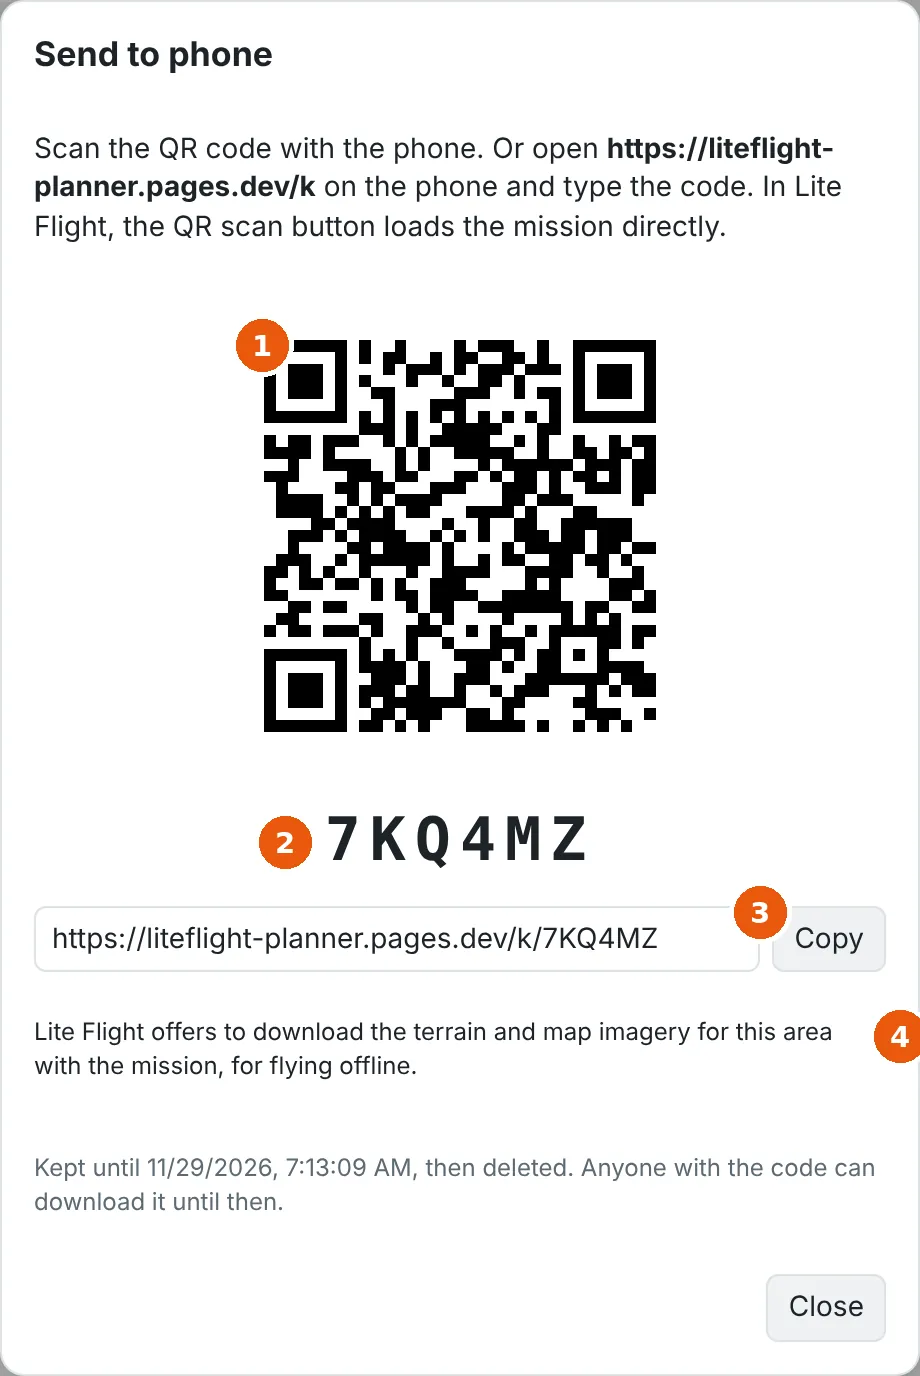
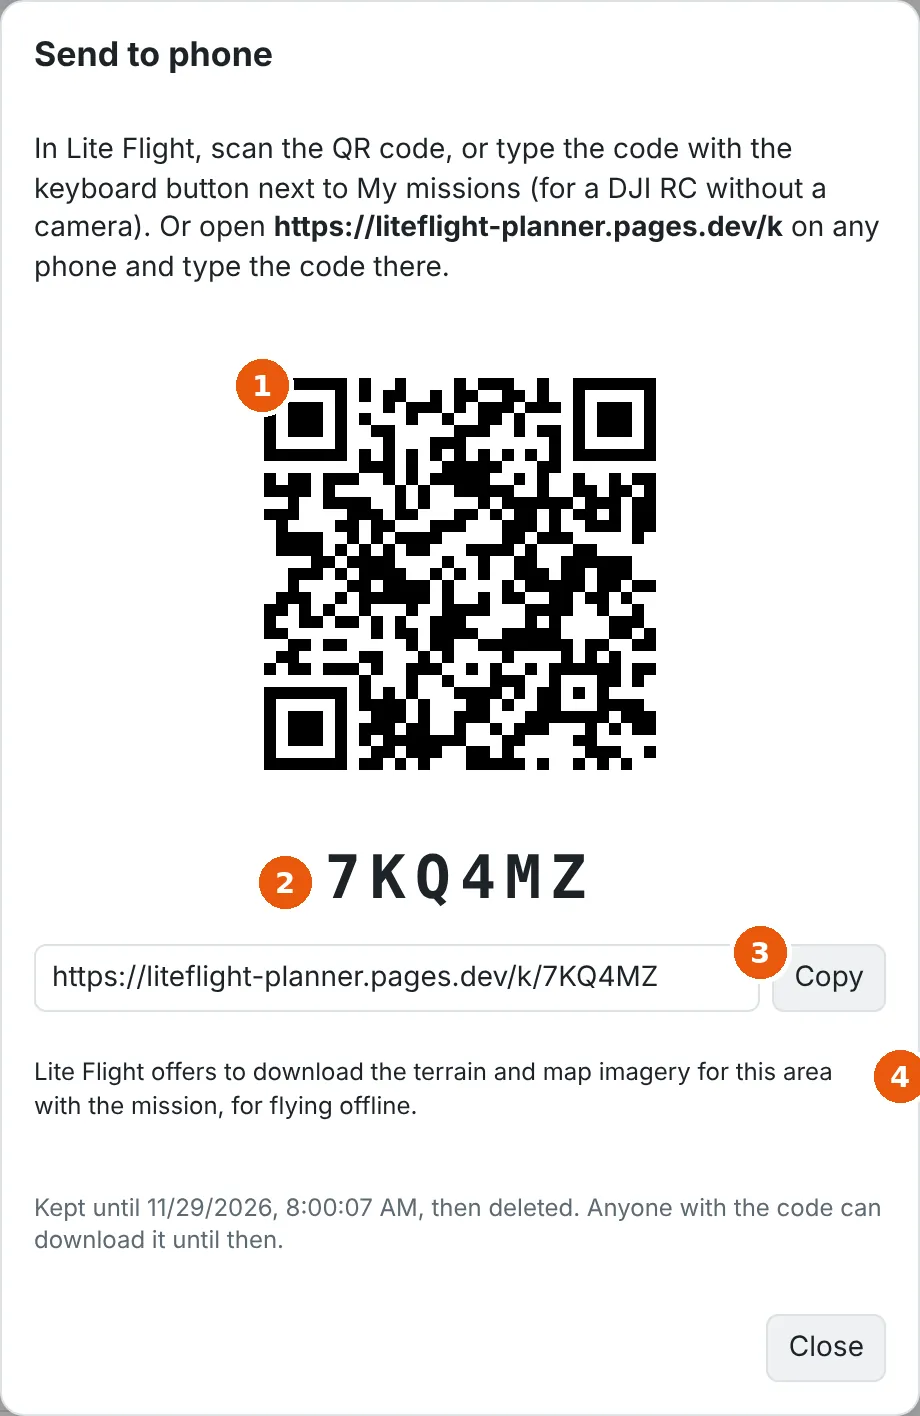
Planner manual: typing the share code (#3)
* Planner manual: typing the share code in Lite Flight, open-file button, new Send to phone screenshot

Claude-Session: https://claude.ai/code/session_01KHUh9xWMAUsU8j9oenTQK6

* Planner manual: open-file and keyboard icons next to My missions

Claude-Session: https://claude.ai/code/session_01KHUh9xWMAUsU8j9oenTQK6

---------

diff --git a/docs/planner/index.html b/docs/planner/index.html
@@ -364,8 +364,8 @@ footer { margin-top: 5rem; padding-top: 1.5rem; border-top: 1px solid var(--line
     <li><b>Draw</b><span>Outline the area, trace the road or drop the orbit centre, and place the launch point.</span></li>
     <li><b>Set up</b><span>Pick the drone and the altitude, GSD, overlap and speed, as in Lite Flight.</span></li>
     <li><b>Check</b><span>Read the notes, clear any ground warning, and fly it once in the 3D simulation.</span></li>
-    <li><b>Send</b><span>Send to phone shows a QR code and a six-letter code. Or download the KMZ.</span></li>
-    <li><b>Open in Lite Flight</b><span>Scan the QR in Lite Flight's <a href="../#qr-share">mission import</a>, then fly as usual.</span></li>
+    <li><b>Send</b><span>Send to phone shows a QR code and a six-character code. Or download the KMZ.</span></li>
+    <li><b>Open in Lite Flight</b><span>Scan the QR, or type the code, in Lite Flight's <a href="../#qr-share">My missions</a>, then fly as usual.</span></li>
   </ol>
   <div class="note warn">
     <span class="tag">Needs an active Lite Flight license or trial</span>
@@ -557,11 +557,11 @@ footer { margin-top: 5rem; padding-top: 1.5rem; border-top: 1px solid var(--line
     <p class="lede">The fastest way to the field: a QR code that Lite Flight scans.</p>
   </div>
   <div class="fig tall wide">
-    <figure class="shot"><img src="img/share.webp" width="920" height="1376" loading="lazy" alt="The Send to phone dialog with a QR code, the share code 7KQ4MZ, a download link with a Copy button, and a note that Lite Flight offers to download the terrain and imagery for the area."></figure>
+    <figure class="shot"><img src="img/share.webp" width="920" height="1416" loading="lazy" alt="The Send to phone dialog with a QR code, the share code 7KQ4MZ, a download link with a Copy button, and a note that Lite Flight offers to download the terrain and imagery for the area."></figure>
     <ol class="legend">
-      <li><span><b>QR code.</b> In Lite Flight, use the QR scan in <a href="../#qr-share">mission import</a>: the mission loads directly.</span></li>
-      <li><span><b>Share code.</b> Six characters, for a phone that can't scan: type it in Lite Flight, or open the link's address in the phone's browser.</span></li>
-      <li><span><b>Link.</b> Downloads the KMZ in any browser, to open later with <a href="../#load-plan">Load mission plan</a>.</span></li>
+      <li><span><b>QR code.</b> In Lite Flight, scan it with the <a href="../#qr-share">QR button</a>: the mission loads directly.</span></li>
+      <li><span><b>Share code.</b> Six characters, for a controller or phone that can't scan. In Lite Flight, tap the keyboard icon next to <a href="../#qr-share">My missions</a> and type it: handy on a DJI RC with no camera. Or open the link's address in any phone's browser and type it there.</span></li>
+      <li><span><b>Link.</b> Downloads the KMZ in any browser, to open later with the open-file icon next to My missions in Lite Flight (<a href="../#load-plan">Load mission plan</a>).</span></li>
       <li><span><b>Offline maps.</b> Lite Flight offers to download the terrain and map imagery for the mission's area, so the map works with no signal on site.</span></li>
     </ol>
   </div>
@@ -573,7 +573,7 @@ footer { margin-top: 5rem; padding-top: 1.5rem; border-top: 1px solid var(--line
   </ul>
   <div class="note">
     <span class="tag">Prefer a file?</span>
-    <p><b>Download KMZ</b> saves the mission as a Lite Flight KMZ. Copy it to the phone and open it with <a href="../#load-plan">Load mission plan</a>. It is the same file Lite Flight exports, with the outline and settings inside, so you can also reopen it in the planner later.</p>
+    <p><b>Download KMZ</b> saves the mission as a Lite Flight KMZ. Copy it to the phone and open it with the open-file icon next to My missions in Lite Flight (<a href="../#load-plan">Load mission plan</a>). It is the same file Lite Flight exports, with the outline and settings inside, so you can also reopen it in the planner later.</p>
   </div>
 </section>
 
